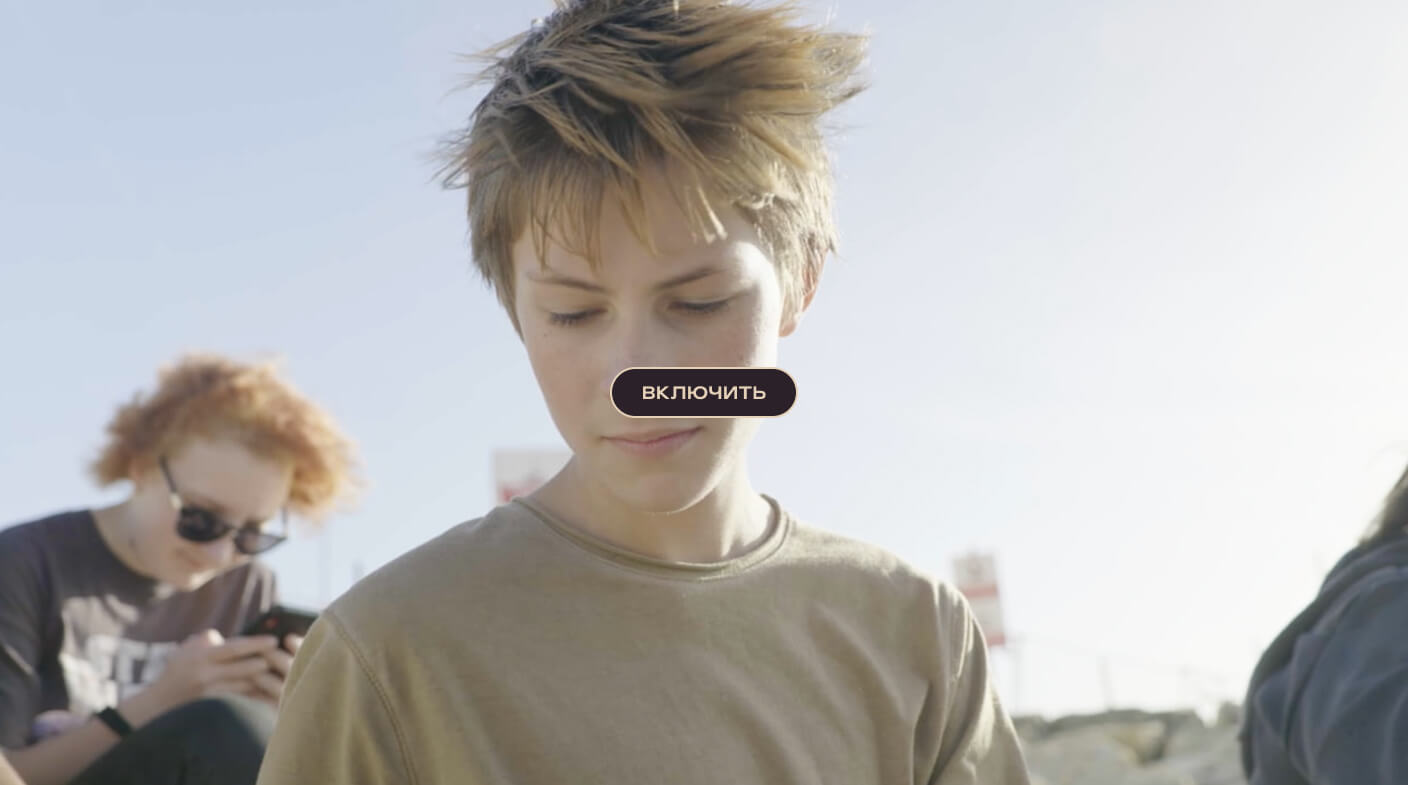
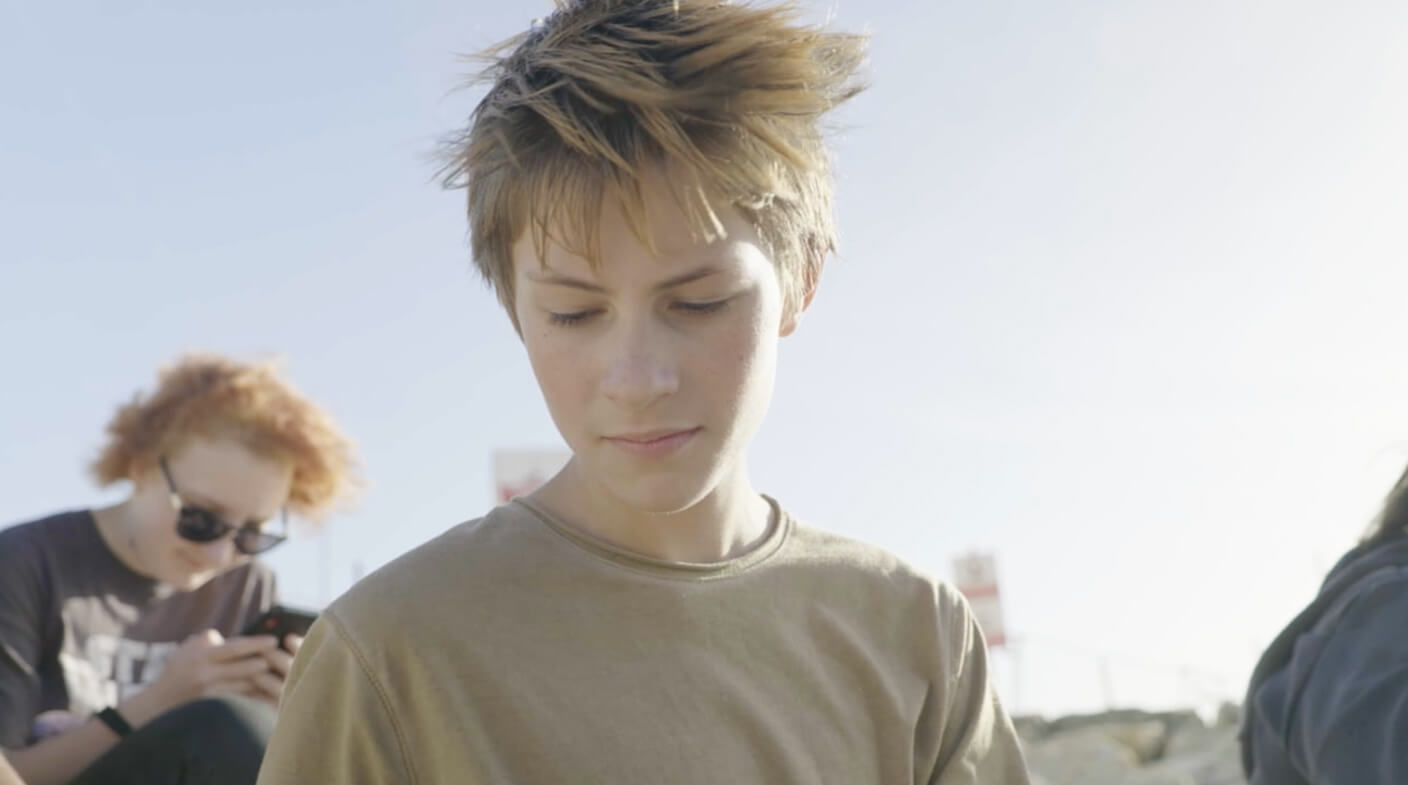
video player added

Changed region(s): [[0.4062, 0.4586, 0.5938, 0.5503]]

diff --git a/styles/section.css b/styles/section.css
@@ -34,6 +34,49 @@
   padding: 12px 10px 27px;
 }
 
+.section__video-wrapper {
+  position: relative;
+}
+
+.section__video-cover {
+  position: absolute;
+  block-size: 100%;
+  left: 0;
+  right: 0;
+  top: 0;
+  bottom: 0;
+  z-index: 2;
+}
+
+.section__video-play {
+  position: absolute;
+  left: 50%;
+  top: 50%;
+  transform: translate(-50%, -50%);
+  z-index: 3;
+  display: flex;
+  align-items: center;
+  justify-content: center;
+  border-radius: 100px;
+  border: 2px solid #E5D1B8;
+  background: #2B2129;
+  padding: 16px 29px;
+  color: #E5D1B8;
+  text-align: center;
+  font-size: var(--about-button-play-text);
+  font-family: Plaid, sans-serif;
+  font-style: normal;
+  font-weight: 700;
+  line-height: 100%;
+  text-transform: uppercase;
+  cursor: pointer;
+  transition: 0.3s;
+}
+
+.section__video-play:hover {
+  opacity: 0.8;
+}
+
 .section__video {
   display: block;
   border: 0;
@@ -43,13 +86,6 @@
   height: auto;
   object-fit: cover;
   object-position: center;
-}
-
-.section__video::-webkit-media-controls-panel {
-  opacity: 0;
-}
-.section__video:hover::-webkit-media-controls-panel {
-  opacity: 1;
 }
 
 .section__pic {
@@ -110,5 +146,9 @@
 
   .section__title {
     padding: 2px 0px 5px;
+  }
+
+  .section__video-play {
+    padding: 9px 17px;
   }
 }

diff --git a/about.html b/about.html
@@ -48,10 +48,14 @@
                 </section>
                 <section class="section section_display_wide article-about">
                     <figure>
+                      <div class="section__video-wrapper">
+                        <img class="section__video-cover" alt="Обложка видео" src="./images/about/cover.jpg">
+                        <button type="button" class="section__video-play">Включить</button>
                         <video class="section__video" poster="./images/about/cover.jpg" controls>
                             <source src="./video/test.mov" type="video/mp4" />
                         </video>
-                        <figcaption class="section__caption">Здесь видео, которое сейчас монтируем и&nbsp;под которое будет писаться музыка</figcaption>
+                      </div>
+                      <figcaption class="section__caption">Здесь видео, которое сейчас монтируем и&nbsp;под которое будет писаться музыка</figcaption>
                     </figure>
                     <div class="section section_display_narrow article-about">
                         <p class="section__text">

diff --git a/scripts/about-tabs.js b/scripts/about-tabs.js
@@ -32,18 +32,17 @@
   });
 })();
 
-
-(function() { // video poster
+(function() { // video play
+  const playButton = document.querySelector('.section__video-play');
+  const poster = document.querySelector('.section__video-cover');
   const video = document.querySelector('.section__video');
-  const changePoster = () => {
-    if (document.querySelector('body').clientWidth <= 600) {
-      video.poster = './images/about/cover-mob.jpg';
-    } else {
-      video.poster = './images/about/cover.jpg';
-    }
-  };
 
-  window.addEventListener('resize', ()=>{
-    setTimeout(changePoster, 100);
-  });
+  const playVideo = (evt) => {
+    evt.preventDefault();
+    playButton.remove();
+    poster.remove();
+    video.play();
+  }
+
+  playButton.addEventListener('click', playVideo)
 })();

diff --git a/styles/sizes.css b/styles/sizes.css
@@ -115,6 +115,7 @@
   --about-title-font-size: clamp(1.875rem, 1.5536rem + 1.6071vw, 3rem);
   --about-button-font-size: clamp(1.125rem, 0.9107rem + 1.0714vw, 1.875rem);
   --about-text-tab-font-size: clamp(0.875rem, 0.5893rem + 1.4286vw, 1.875rem);
+  --about-button-play-text: clamp(0.75rem, 0.6429rem + 0.5357vw, 1.125rem);
 }
 
 @media (max-width: 1200px) {
